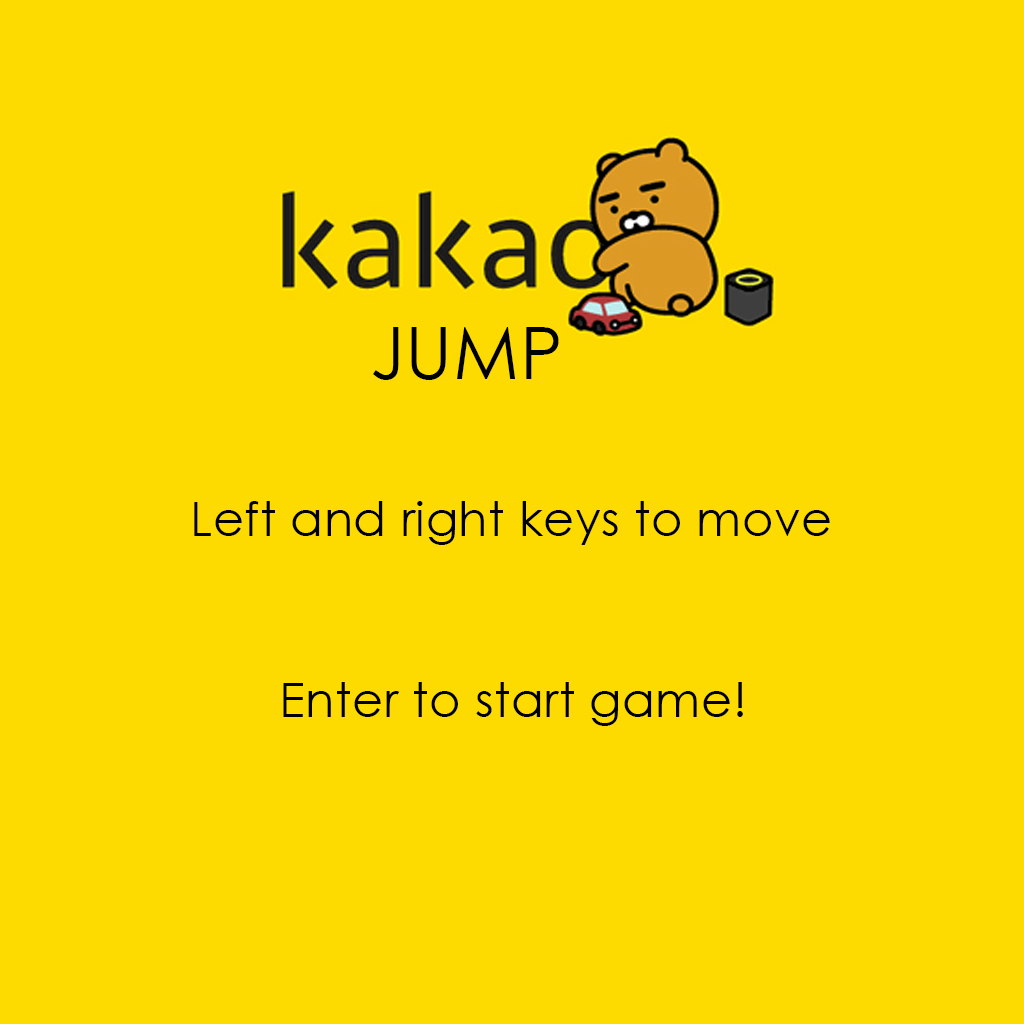
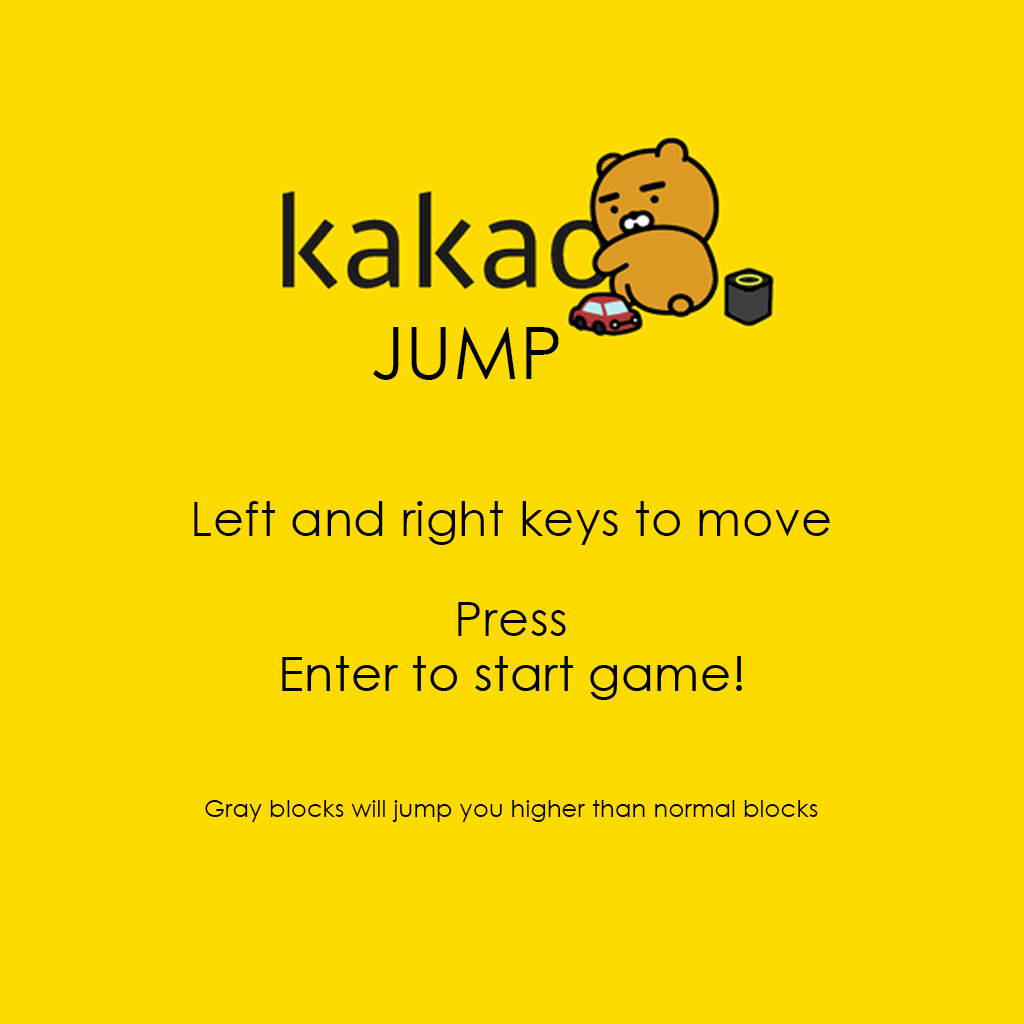
added jump platform

Changed region(s): [[0.25, 0.5938, 0.75, 0.7188], [0.1875, 0.7812, 0.7812, 0.8125]]

diff --git a/lib/bundle.js b/lib/bundle.js
@@ -280,12 +280,7 @@
         onCollide() {
           kakao.stopFall();
           if (this.type === 1) {
-            jump2.play();
-            setTimeout(() => {
-              jump2.pause();
-              jump2.load();
-            }, 2000);
-            kakao.jumpVelocity = 20;
+            kakao.jumpVelocity = 40;
             this.points += 20;
             if (this.points > this.highScore) {
               this.highScore = this.points;
@@ -417,7 +412,7 @@
         setTimeout(() => {
           clear();
           let image = new Image();
-          // image.src = './assets/images/main.png';
+          // image.src = "./assets/images/cloud.jpg";
           image.onload = function () {
             ctx.drawImage(image, 0, 0, width, height);
           };
@@ -425,7 +420,8 @@
           ctx.font = "15pt Comic Sans MS";
           ctx.fillText("GAME OVER", width / 2 - 60, 210);
           ctx.fillText("Your Score is: " + points, width / 2 - 80, 240);
-          ctx.fillText("Press 'ENTER' to Play Again!", width / 2 - 120, 270);
+          ctx.fillText("The high score is: " + highScore, width / 2 - 100, 270);
+          ctx.fillText("Press 'ENTER' to Play Again!", width / 2 - 130, 300);
         }, 1000);
         gameover.play();
         setTimeout(() => {
@@ -438,16 +434,6 @@
         "ended",
         function () {
           this.play();
-        },
-        false
-      );
-
-      jump2.addEventListener(
-        "ended",
-        function () {
-          this.play();
-          this.pause();
-          this.load();
         },
         false
       );
